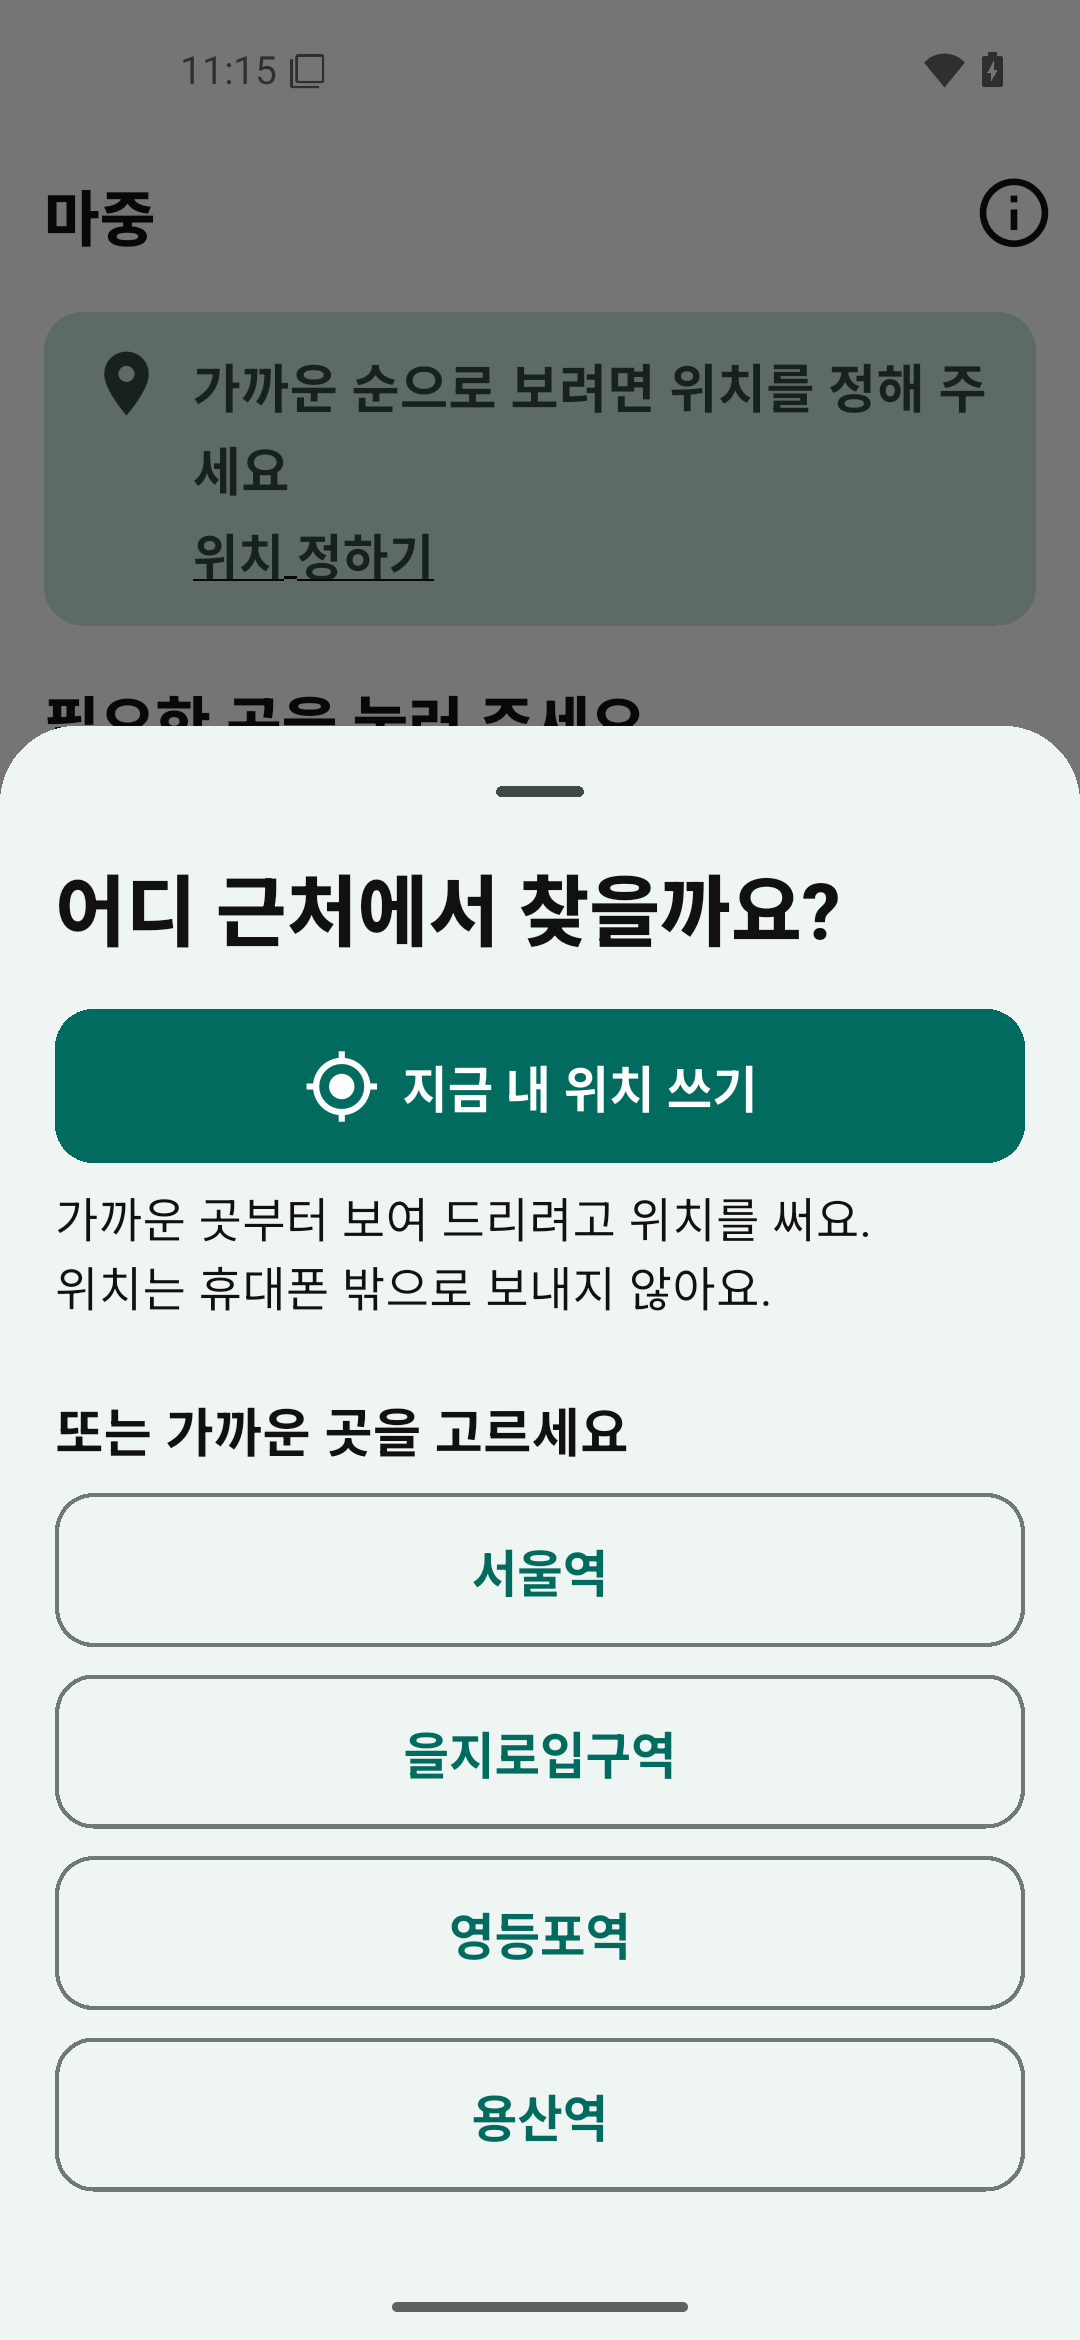
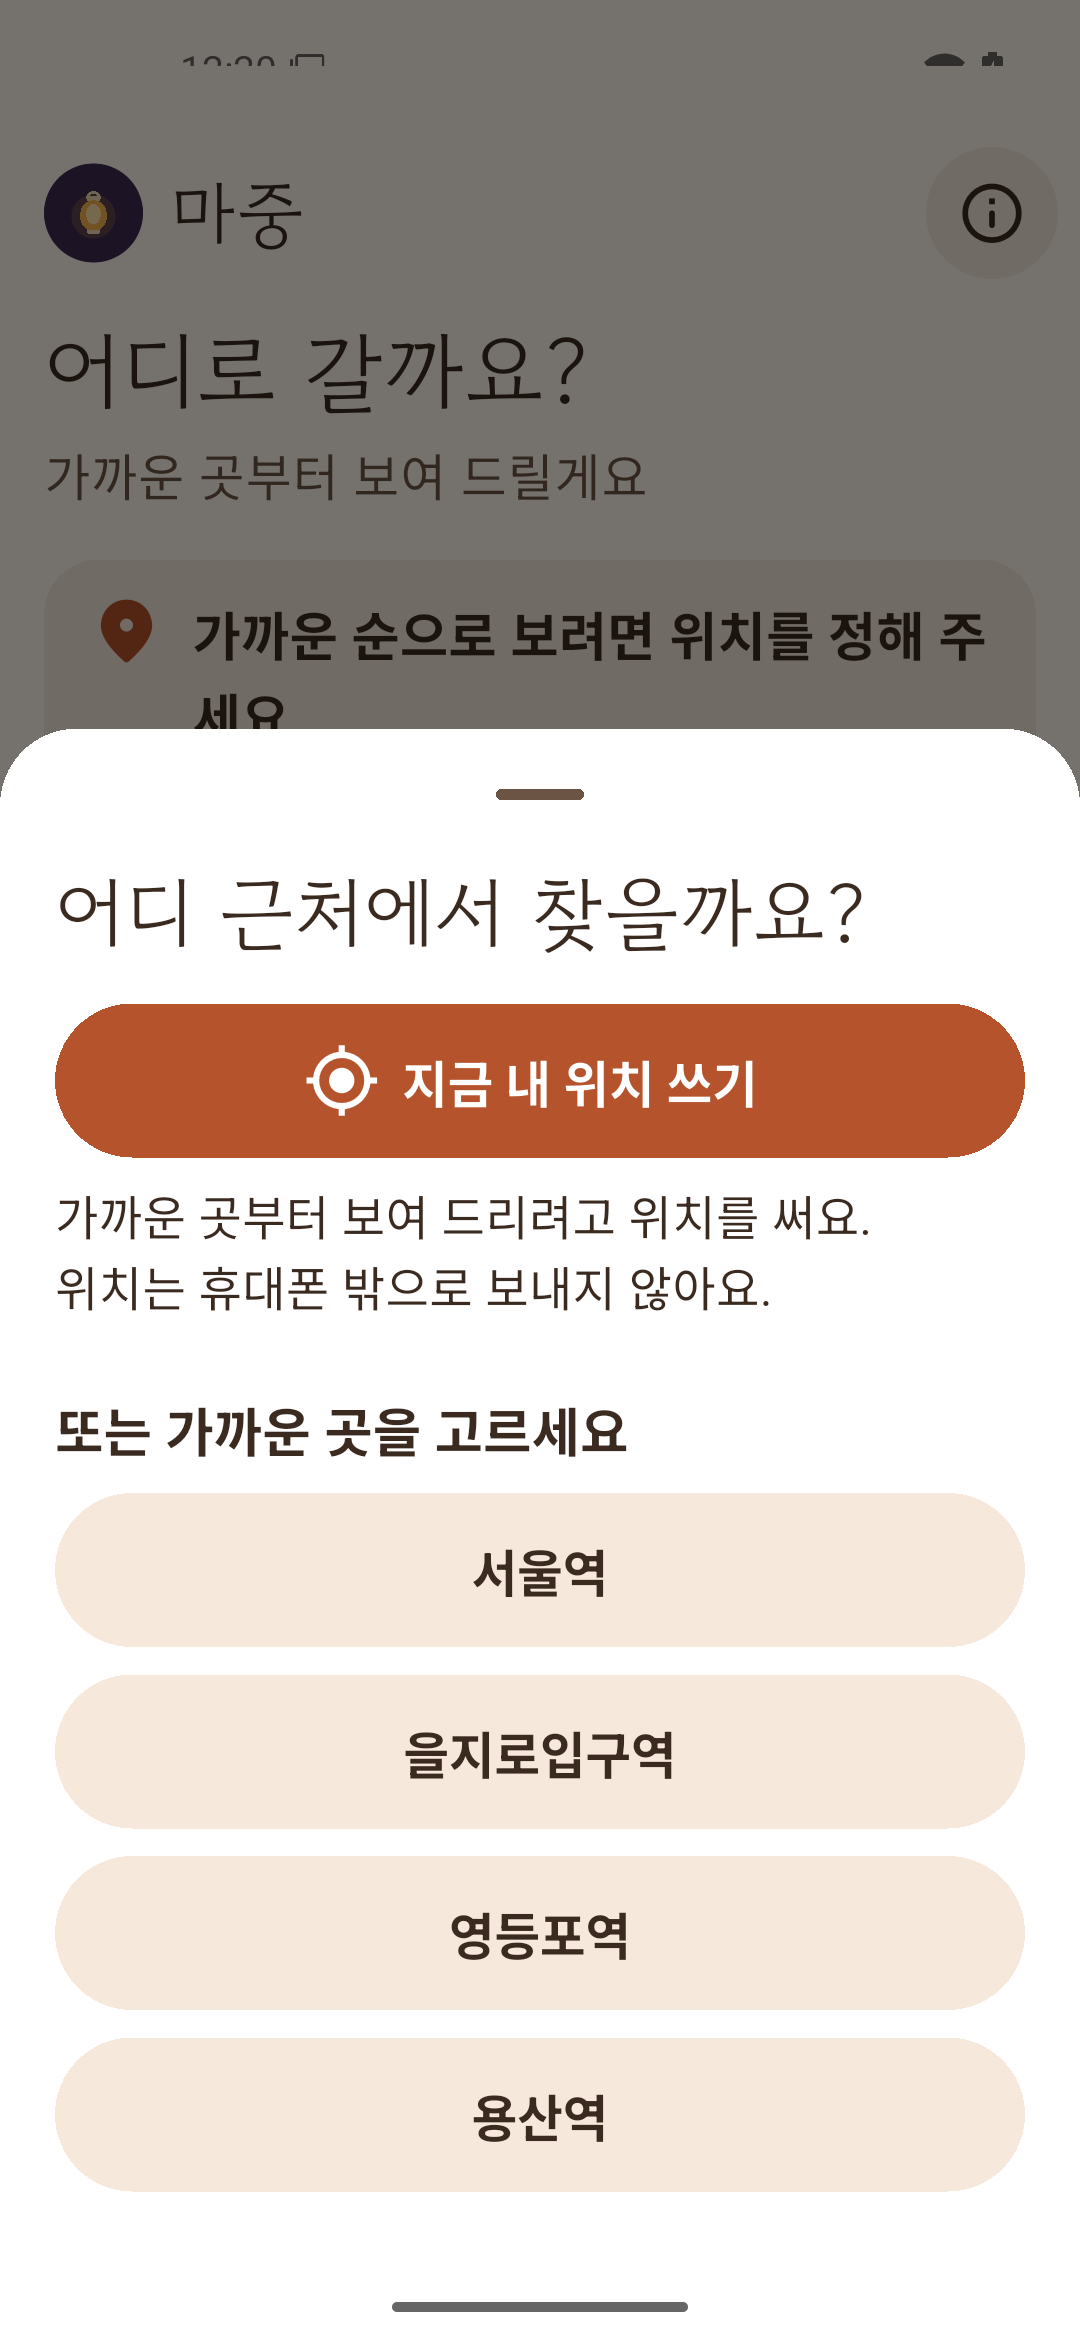
README: 새 디자인 스크린샷, 디자인·아이콘·글꼴 설명 추가
- docs/screenshots: 따뜻한 디자인으로 5장 다시 촬영 (평일 낮 12:20, 서울역 기준)
- 디자인 절, 폴더 표(docs/store, tools), 아이콘·글꼴 다시 만들기, 글꼴 저작권 표시

diff --git a/README.md b/README.md
@@ -10,6 +10,19 @@
 |---|---|---|---|---|
 | ![첫 화면](docs/screenshots/shot-1-home.png) | ![위치 정하기](docs/screenshots/shot-2-picker.png) | ![목록](docs/screenshots/shot-3-list.png) | ![상세](docs/screenshots/shot-6-detail.png) | ![지도](docs/screenshots/shot-7-map.png) |
 
+<sub>평일 낮 12시 20분, 서울역 근처 기준 화면 (2026-11-04)</sub>
+
+## 디자인
+
+지금 당장 도움이 필요한 사람이 쓰는 앱이라, 차갑지 않고 **따뜻하고 편안하게** 보이도록 만들었습니다.
+
+- **아이콘**: 밤에 켜진 등불. '마중'처럼 누군가 불을 들고 기다리고 있다는 뜻
+- **색**: 크림색 바탕, 테라코타 버튼, 진한 갈색 글자. 밥은 살구색, 잠자리는 연보라. 어두운 모드는 따뜻한 짙은 갈색 (`app/lib/ui/theme.dart`)
+- **모양**: 둥근 카드와 알약 모양 버튼, 테두리 선 대신 색을 채운 면
+- **글꼴**: 큰 제목은 고운돋움, 본문은 휴대폰 기본 글꼴
+- **말투**: 명령보다 권하는 말 ("어디로 갈까요?", "가기 전에 전화로 한 번 확인해 주세요")
+- 따뜻한 색을 쓰더라도 글자 대비 4.5:1 이상, 터치 영역 48dp 이상, 글자 크기 200%는 지킵니다 (`docs/policy/ux-accessibility.md`)
+
 ## 지키는 원칙
 
 자세한 규칙은 [`CLAUDE.md`](CLAUDE.md)와 [`docs/policy/`](docs/policy/)에 있습니다.
@@ -33,6 +46,8 @@
 | `data/build-report.md` | 마지막 데이터 빌드 결과·전화 확인 목록 |
 | `docs/policy/` | Play·개인정보·데이터·UX 정책 |
 | `docs/decisions.md` | 결정 기록, 출시 전에 정해야 할 것 |
+| `docs/store/` | Play 스토어 등록용 이미지 (아이콘 512px) |
+| `tools/` | 아이콘 PNG·글꼴 다시 만들기 스크립트 |
 | `docker/`, `compose.yaml` | 개발 환경 |
 
 ## 개발 환경 (Docker, 호스트에 Flutter·Android SDK 설치 안 함)
@@ -75,6 +90,18 @@ python3 -m unittest discover -s pipeline/tests     # 파이프라인 테스트
 - 원본이 바뀌어 운영 문구가 달라지면 구조화된 운영시간을 버리고 "확인 필요"로 표시하며, 보고서에 경고를 남깁니다.
 - 결과는 `data/build-report.md`에서 확인합니다 (포함·제외·경고·전화 확인 필요 목록).
 
+## 아이콘·글꼴 다시 만들기
+
+호스트 Python으로 실행합니다 (`tools/launcher_icon.py`는 Pillow, `tools/subset_font.py`는 fontTools 필요).
+
+```bash
+python3 -I tools/launcher_icon.py                          # 구형 기기용 PNG + docs/store/icon-512.png
+python3 -I tools/subset_font.py GowunDodum-Regular.ttf     # 제목 글꼴 줄이기 (7.2MB → 약 1.2MB)
+```
+
+- 아이콘 모양을 바꾸면 `app/android/app/src/main/res/drawable/ic_launcher_foreground.xml`(안드로이드 8 이상용 벡터)과 `tools/launcher_icon.py`를 함께 고칩니다.
+- 글꼴은 한글 2,350자와 앱 문구·시설 데이터에 나오는 글자만 남깁니다. 시설 데이터에 드문 글자가 새로 들어오면 다시 만듭니다. 원본: [google/fonts](https://github.com/google/fonts/tree/main/ofl/gowundodum)
+
 ## 출시 전에 할 일
 
 - [`docs/decisions.md`](docs/decisions.md)의 "출시 전에 다시 정해야 할 것": 패키지명 확정, 오류 신고 이메일, 전화 확인 담당, 비공개 테스터 12명, 위치정보법 검토
@@ -84,3 +111,4 @@ python3 -m unittest discover -s pipeline/tests     # 파이프라인 테스트
 
 - 시설 정보: 공공데이터포털·서울시·각 구청 공개 데이터 등. 데이터셋별 출처와 이용 조건은 `data/research/`에, 시설별 출처는 앱 상세 화면과 정보 화면("데이터 출처")에 있습니다.
 - 지도: © OpenStreetMap contributors
+- 글꼴: 고운돋움 (Gowun Dodum Project Authors, SIL Open Font License 1.1). 라이선스 원문은 `app/assets/fonts/GowunDodum-OFL.txt`
